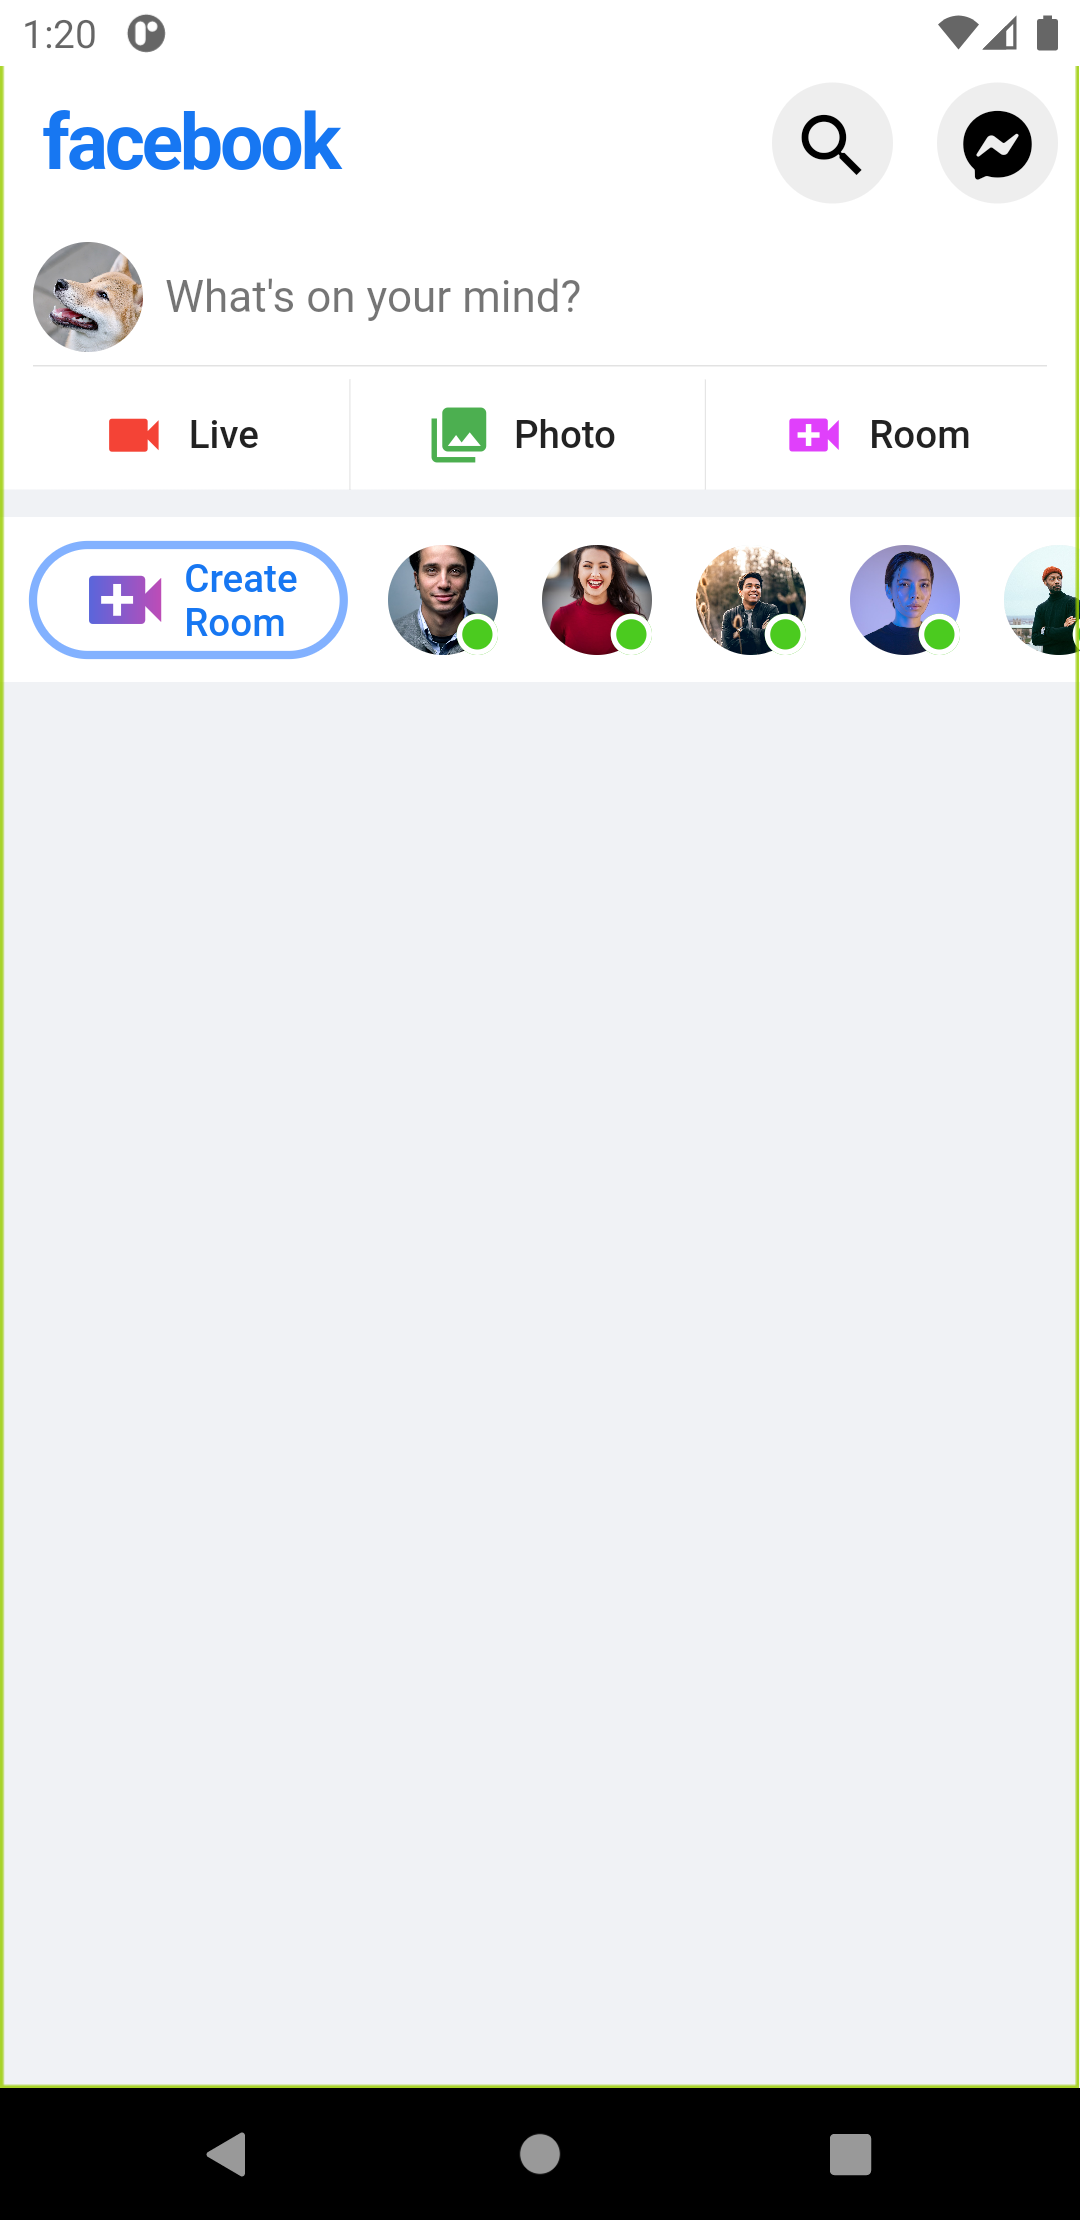
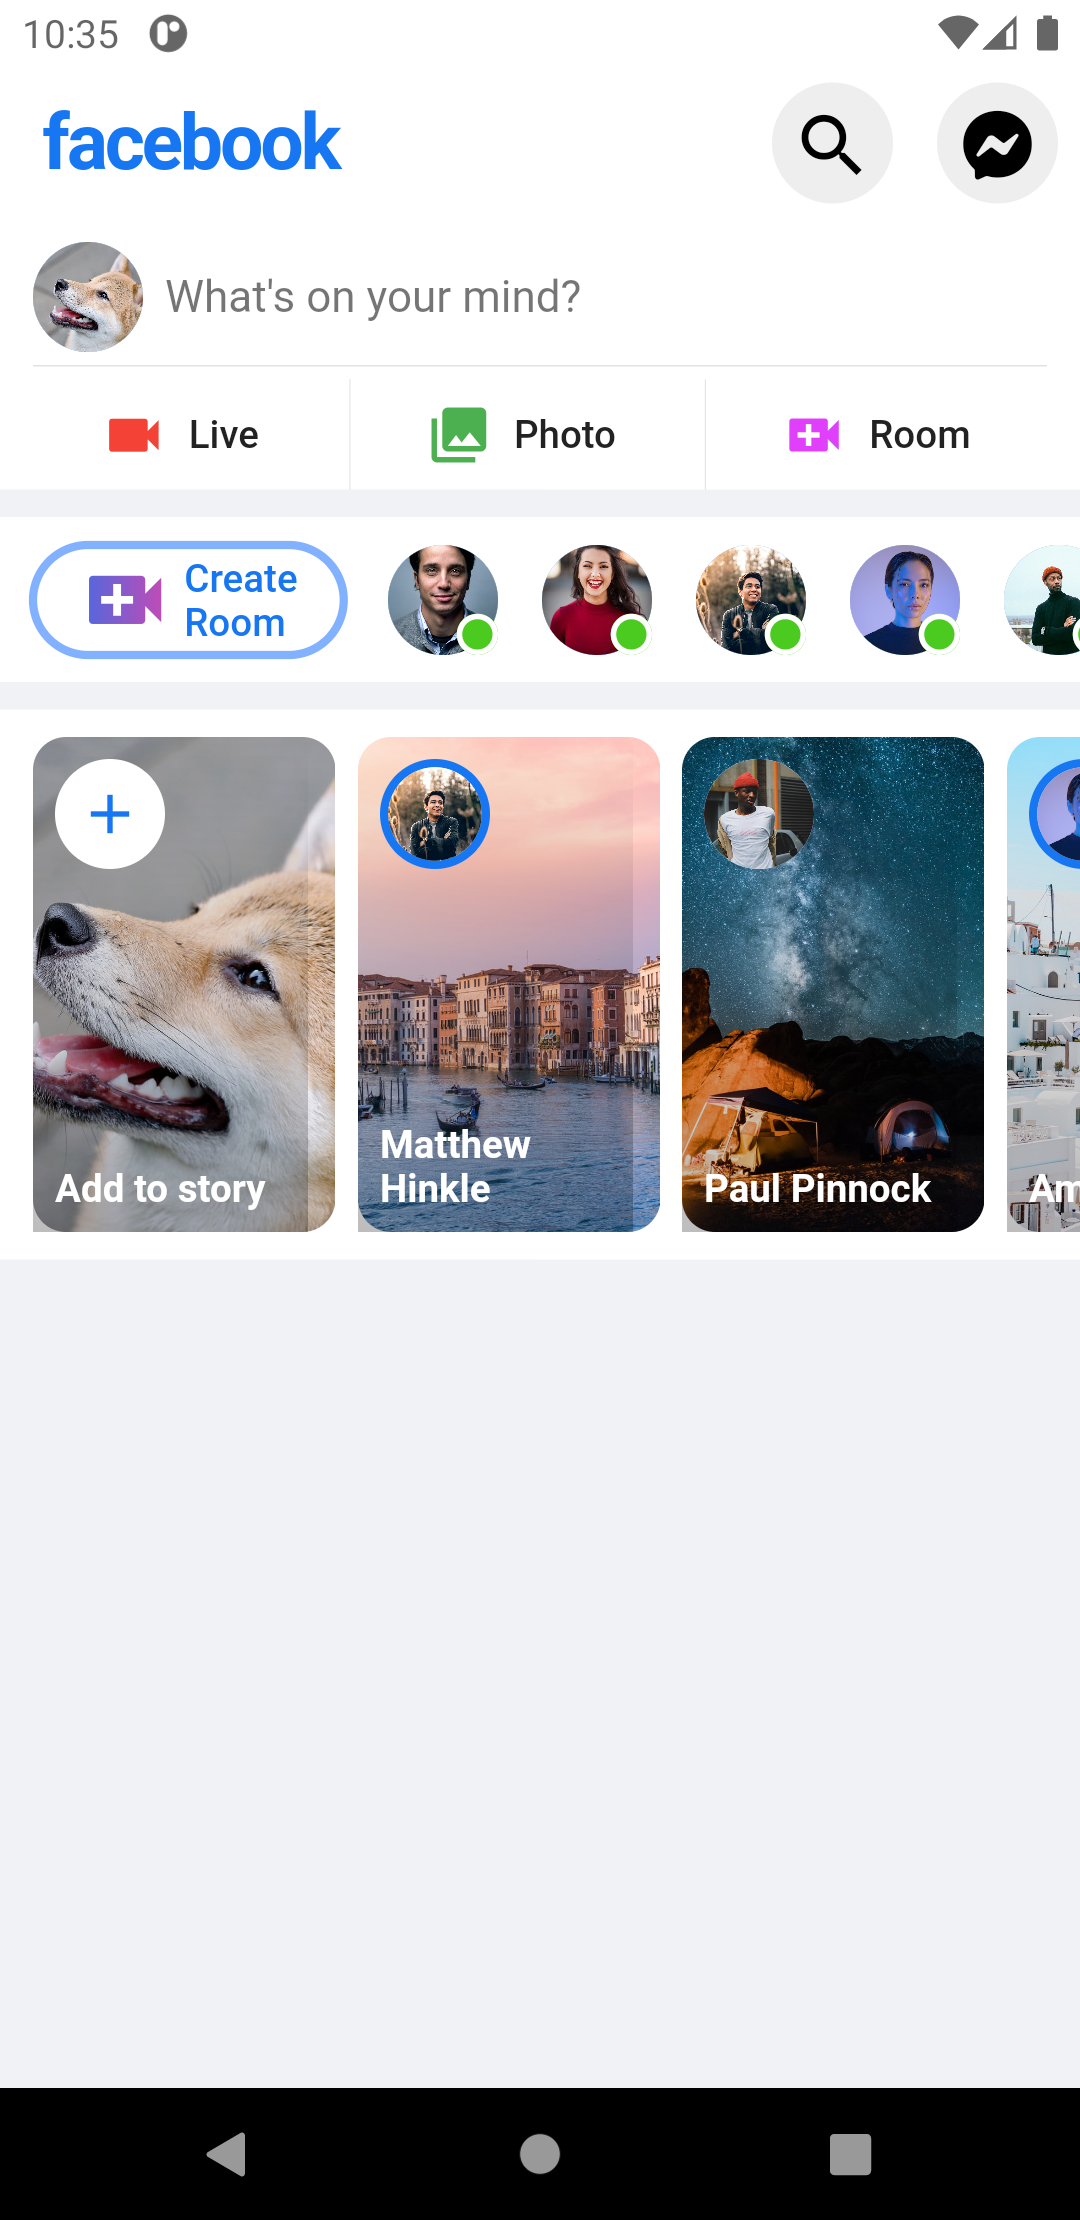
make stories ui in home screen

Changed region(s): [[0.0, 0.0311, 1.0, 0.9324], [0.0306, 0.0, 0.1833, 0.0311]]

diff --git a/lib/widgets/Stories.dart b/lib/widgets/Stories.dart
@@ -1,0 +1,109 @@
+import 'package:cached_network_image/cached_network_image.dart';
+import 'package:facebook_ui_clone/config/pallete.dart';
+import 'package:facebook_ui_clone/models/Models.dart';
+import 'package:facebook_ui_clone/widgets/widgets.dart';
+import 'package:flutter/material.dart';
+
+class Stories extends StatelessWidget {
+  final User currentUser;
+  final List<Story> stories;
+
+  const Stories({
+    Key key,
+    @required this.currentUser,
+    @required this.stories,
+  }) : super(key: key);
+
+  @override
+  Widget build(BuildContext context) {
+    return Container(
+      height: 200,
+      color: Colors.white,
+      child: ListView.builder(
+        padding: const EdgeInsets.symmetric(vertical: 10.0, horizontal: 8.0),
+        scrollDirection: Axis.horizontal,
+        itemCount: 1 + stories.length,
+        itemBuilder: (BuildContext context, int index) {
+          if (index == 0) {
+            return Padding(
+              padding: const EdgeInsets.symmetric(horizontal: 4.0),
+              child: _StoryCard(isAddStory: true, currentUser: currentUser),
+            );
+          }
+          final Story story = stories[index - 1];
+          return Padding(
+            padding: const EdgeInsets.symmetric(horizontal: 4.0),
+            child: _StoryCard(story: story),
+          );
+        },
+      ),
+    );
+  }
+}
+
+class _StoryCard extends StatelessWidget {
+  final bool isAddStory;
+  final User currentUser;
+  final Story story;
+
+  const _StoryCard({
+    Key key,
+    this.isAddStory = false,
+    this.currentUser,
+    this.story,
+  }) : super(key: key);
+
+  @override
+  Widget build(BuildContext context) {
+    return Stack(
+      children: [
+        ClipRRect(
+          borderRadius: BorderRadius.circular(12.0),
+          child: CachedNetworkImage(
+            imageUrl: isAddStory ? currentUser.imageUrl : story.imageUrl,
+            height: double.infinity,
+            width: 110.0,
+            fit: BoxFit.cover,
+          ),
+        ),
+        Container(
+          height: double.infinity,
+          width: 100.0,
+          decoration: BoxDecoration(
+            gradient: Palette.storyGradient,
+          ),
+        ),
+        Positioned(
+          top: 8.0,
+          left: 8.0,
+          child: isAddStory
+              ? Container(
+                  height: 40.0,
+                  width: 40.0,
+                  decoration: BoxDecoration(
+                      color: Colors.white, shape: BoxShape.circle),
+                  child: IconButton(
+                      icon: Icon(Icons.add, color: Palette.facebookBlue),
+                      onPressed: () {}),
+                )
+              : ProfileAvatar(
+                  imageUrl: story.user.imageUrl, hasBorder: !story.isViewed),
+        ),
+        Positioned(
+          bottom: 8.0,
+          left: 8.0,
+          right: 8.0,
+          child: Text(
+            isAddStory ? 'Add to story' : story.user.name,
+            style: const TextStyle(
+              color: Colors.white,
+              fontWeight: FontWeight.bold,
+            ),
+            maxLines: 2,
+            overflow: TextOverflow.ellipsis,
+          ),
+        )
+      ],
+    );
+  }
+}

diff --git a/lib/widgets/ProfileAvatar.dart b/lib/widgets/ProfileAvatar.dart
@@ -5,11 +5,13 @@ import 'package:flutter/material.dart';
 class ProfileAvatar extends StatelessWidget {
   final String imageUrl;
   final bool isActive;
+  final bool hasBorder;
 
   const ProfileAvatar({
     Key key,
     @required this.imageUrl,
     this.isActive = false,
+    this.hasBorder = false,
   }) : super(key: key);
 
   @override
@@ -18,8 +20,12 @@ class ProfileAvatar extends StatelessWidget {
       children: [
         CircleAvatar(
           radius: 20.0,
-          backgroundColor: Colors.grey[200],
-          backgroundImage: CachedNetworkImageProvider(imageUrl),
+          backgroundColor: Palette.facebookBlue,
+          child: CircleAvatar(
+            radius: hasBorder ? 17.0 : 20.0,
+            backgroundColor: Colors.grey[200],
+            backgroundImage: CachedNetworkImageProvider(imageUrl),
+          ),
         ),
         isActive
             ? Positioned(

diff --git a/lib/screens/HomeScreen.dart b/lib/screens/HomeScreen.dart
@@ -47,6 +47,12 @@ class HomeScreen extends StatelessWidget {
               child: Rooms(onlineUsers: onlineUsers),
             ),
           ),
+          SliverPadding(
+            padding: const EdgeInsets.fromLTRB(0.0, 5.0, 0.0, 5.0),
+            sliver: SliverToBoxAdapter(
+              child: Stories(currentUser: currentUser, stories: stories),
+            ),
+          ),
         ],
       ),
     );

diff --git a/lib/widgets/widgets.dart b/lib/widgets/widgets.dart
@@ -2,3 +2,4 @@ export 'CircleButton.dart';
 export 'CreatePostContainer.dart';
 export 'Rooms.dart';
 export 'ProfileAvatar.dart';
+export 'Stories.dart';
